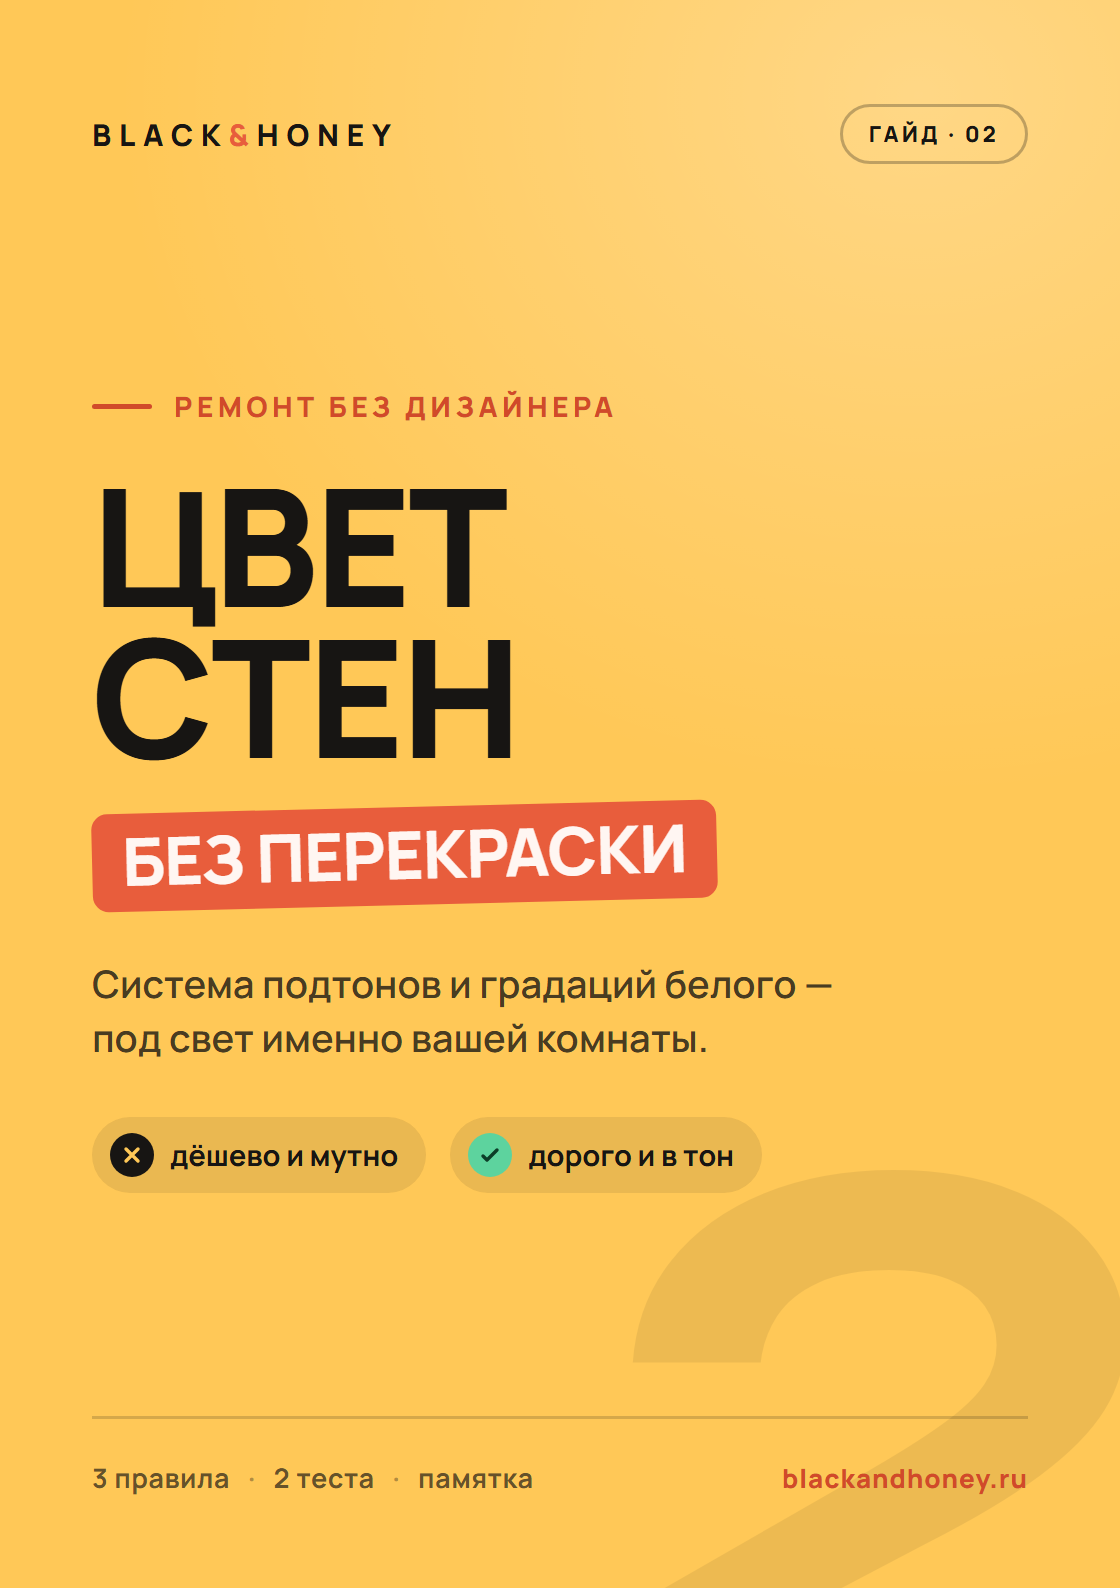
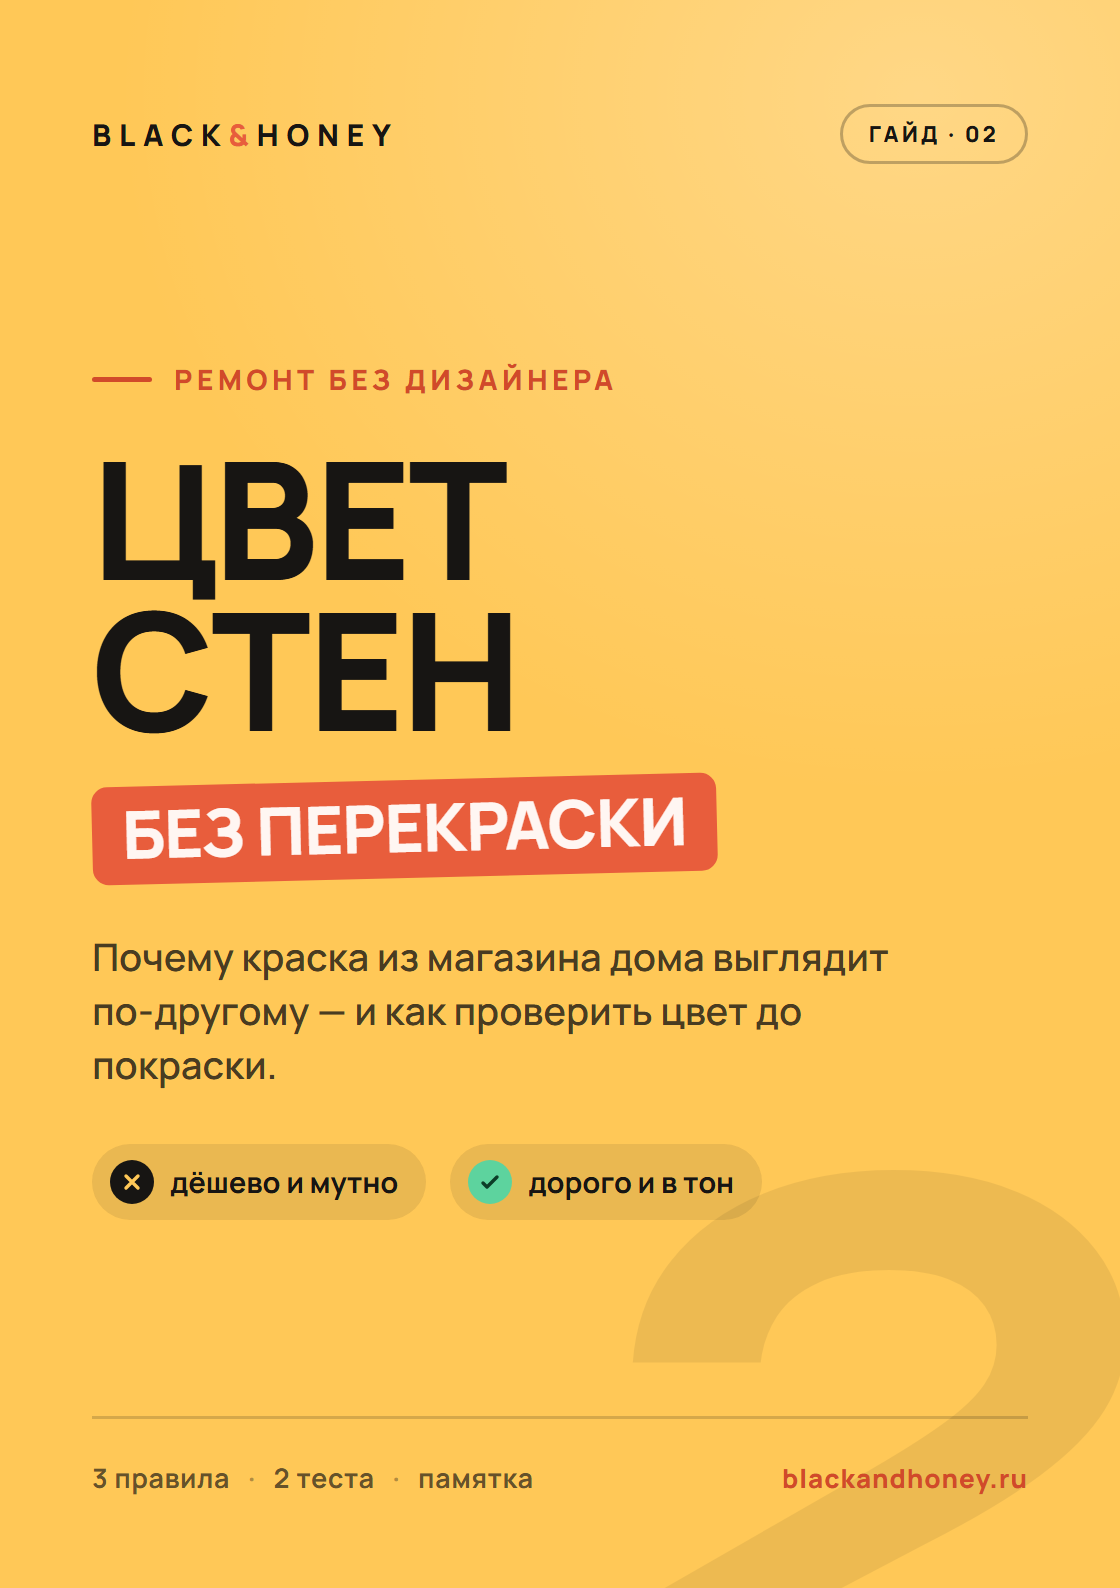
Лендинг: фото Надежды в блоке «Кто мы» (два основателя), новый текст обложки гайда №2

diff --git a/tg-cards.html b/tg-cards.html
@@ -1,0 +1,198 @@
+<!DOCTYPE html>
+<html lang="ru">
+<head>
+<meta charset="UTF-8">
+<meta name="viewport" content="width=device-width, initial-scale=1">
+<title>Карточки Telegram-бота B&H</title>
+<link rel="stylesheet" href="fonts/fonts.css">
+<style>
+:root{
+  --ink:#171513; --paper:#F7F5F2; --cream:#F3ECDC; --page:#FBF8F3;
+  --honey:#FFC857; --honey-deep:#E2A93B;
+  --terra:#E85D3C; --terra-deep:#D14A2A; --terra-soft:#FFF1ED;
+  --green:#5DD39E; --muted:#6B6B6B;
+  --p-yellow:#FFC857; --p-purple:#A78BFA; --p-green:#5DD39E;
+  --p-yellow-soft:#FFF0D2; --p-purple-soft:#EFE9FE; --p-green-soft:#DDF5EA;
+}
+*{margin:0;padding:0;box-sizing:border-box}
+html{-webkit-print-color-adjust:exact;print-color-adjust:exact}
+body{font-family:'Manrope',system-ui,sans-serif;background:#2B2825;
+  display:flex;flex-direction:column;align-items:center;gap:26px;padding:26px}
+.uf{font-family:'Unbounded',sans-serif}
+
+.card{width:1280px;height:800px;position:relative;overflow:hidden;
+  padding:66px 72px;display:flex;flex-direction:column;-webkit-font-smoothing:antialiased}
+.card::after{content:"";position:absolute;inset:0;pointer-events:none;
+  background:radial-gradient(120% 80% at 84% 4%,rgba(255,255,255,.10),transparent 55%)}
+
+/* верхняя строка */
+.top{display:flex;justify-content:space-between;align-items:center;position:relative;z-index:3}
+.wm{font-size:22px;font-weight:800;letter-spacing:.24em;text-transform:uppercase}
+.wm span{color:var(--honey)}
+.chip-bot{font-size:15px;font-weight:800;letter-spacing:.1em;text-transform:uppercase;
+  border-radius:100px;padding:9px 18px}
+
+/* ============ ПРИВЕТСТВЕННАЯ (терра) ============ */
+.c-welcome{background:var(--terra);color:#FFF6F2;text-align:center;padding:40px 44px 46px}
+.c-welcome .wm{color:#FFFDFB}
+.c-welcome .top{justify-content:center}
+.c-welcome .wbody{flex:1;display:flex;flex-direction:column;align-items:center;justify-content:center;
+  position:relative;z-index:2}
+/* обложки по центру, разведены */
+.c-welcome .fan{position:relative;display:flex;justify-content:center;align-items:flex-end;margin-bottom:26px}
+.c-welcome .fan .bk{position:relative;width:300px;aspect-ratio:172/244;border-radius:6px 14px 14px 6px;
+  overflow:hidden;box-shadow:0 28px 58px -12px rgba(0,0,0,.55),0 3px 8px rgba(0,0,0,.32)}
+.c-welcome .fan .bk img{width:100%;height:100%;object-fit:cover;object-position:top}
+.c-welcome .fan .bk::before{content:"";position:absolute;left:0;top:0;bottom:0;width:22px;
+  background:linear-gradient(90deg,rgba(0,0,0,.3),rgba(0,0,0,0))}
+.c-welcome .fan .k1{transform:rotate(-8deg);margin-right:-32px;z-index:1}
+.c-welcome .fan .k2{transform:translateY(-22px);z-index:3}
+.c-welcome .fan .k3{transform:rotate(8deg);margin-left:-32px;z-index:2}
+.c-welcome .badge{position:absolute;right:30px;top:-16px;z-index:5;background:var(--honey);color:var(--ink);
+  font-weight:800;font-size:20px;line-height:1.15;border-radius:100px;padding:13px 23px;transform:rotate(6deg);
+  box-shadow:0 12px 26px rgba(0,0,0,.28)}
+.c-welcome .badge .uf{font-size:24px}
+.c-welcome h1{font-size:64px;line-height:1.03;font-weight:800;letter-spacing:-.025em;color:#FFFDFB}
+.c-welcome h1 b{color:var(--honey);font-weight:800}
+/* CTA со стрелкой вниз — указывает на реальную кнопку бота под картинкой */
+.c-welcome .cta-down{margin-top:26px;display:flex;flex-direction:column;align-items:center;gap:12px}
+.c-welcome .cta-down .pill{display:inline-flex;align-items:center;background:var(--honey);color:var(--ink);
+  font-size:27px;font-weight:800;border-radius:100px;padding:21px 52px;box-shadow:0 14px 30px rgba(255,200,87,.34)}
+.c-welcome .cta-down .arw-d{color:var(--honey);display:flex;align-items:center;justify-content:center}
+.c-welcome .cta-down .arw-d svg{width:48px;height:48px}
+
+/* ============ ВЫДАЧА ГАЙДА (пастель) ============ */
+.c-guide{color:var(--ink)}
+.c-g1{background:radial-gradient(130% 120% at 88% 0,var(--p-yellow-soft),var(--page) 78%)}
+.c-g2{background:radial-gradient(130% 120% at 88% 0,var(--p-purple-soft),var(--page) 78%)}
+.c-g3{background:radial-gradient(130% 120% at 88% 0,var(--p-green-soft),var(--page) 78%)}
+.c-guide .wm{color:var(--ink)}
+.c-guide .chip-bot{color:var(--ink);border:2px solid rgba(23,21,19,.22)}
+.c-guide .body{display:grid;grid-template-columns:1fr 400px;gap:56px;align-items:center;flex:1;position:relative;z-index:2}
+.c-guide .done{display:inline-flex;align-items:center;gap:12px;font-size:19px;font-weight:800;
+  letter-spacing:.07em;text-transform:uppercase;border-radius:100px;padding:11px 20px 11px 12px;margin-bottom:28px}
+.c-guide .done .ic{width:30px;height:30px;border-radius:50%;background:var(--green);color:#0C3D28;
+  display:flex;align-items:center;justify-content:center}
+.c-guide .done .ic svg{width:16px;height:16px}
+.c-g1 .done{background:var(--p-yellow-soft);color:#8A6210}
+.c-g2 .done{background:var(--p-purple-soft);color:#5F4AB8}
+.c-g3 .done{background:var(--p-green-soft);color:#1F7D55}
+.c-guide h1{font-size:62px;line-height:1.0;font-weight:800;letter-spacing:-.02em;max-width:660px}
+.c-guide h1 em{font-style:normal}
+.c-g1 h1 em{color:var(--terra)}.c-g2 h1 em{color:#6B4FCF}.c-g3 h1 em{color:#1F9D66}
+.c-guide .sub{margin-top:24px;font-size:27px;line-height:1.42;font-weight:500;color:#3D3B38;max-width:660px}
+.c-guide .inside{margin-top:30px;display:inline-flex;gap:12px;flex-wrap:wrap}
+.c-guide .inside span{background:#fff;border:1.5px solid var(--line,#E3DFD8);border-radius:100px;
+  padding:13px 22px;font-size:19px;font-weight:700;color:#3D3B38}
+.c-guide .pdfline{margin-top:34px;display:inline-flex;align-items:center;gap:15px;
+  background:var(--ink);color:var(--paper);border-radius:18px;padding:18px 26px;font-size:22px;font-weight:700}
+.c-guide .pdfline .doc{width:44px;height:44px;border-radius:10px;background:var(--terra);color:#fff;
+  display:flex;align-items:center;justify-content:center;font-size:13px;font-weight:800;flex:0 0 auto}
+.c-guide .pdfline b{color:var(--honey)}
+/* книга */
+.bookwrap{display:flex;justify-content:center;align-items:center;position:relative}
+.book{position:relative;width:372px;aspect-ratio:172/244;border-radius:5px 12px 12px 5px;background:#efe7d6;
+  transform:rotate(-4deg);
+  box-shadow:0 3px 6px rgba(26,20,14,.16),0 14px 24px rgba(26,20,14,.18),0 34px 60px -12px rgba(26,20,14,.5)}
+.book__face{position:absolute;inset:0;border-radius:inherit;overflow:hidden}
+.book__face img{width:100%;height:100%;object-fit:cover;object-position:top}
+.book__face::before{content:"";position:absolute;left:0;top:0;bottom:0;width:26px;z-index:2;
+  background:linear-gradient(90deg,rgba(0,0,0,.30),rgba(0,0,0,.05) 55%,rgba(255,255,255,.12) 80%,rgba(255,255,255,0))}
+.book::before{content:"";position:absolute;top:7px;bottom:7px;right:-9px;width:12px;z-index:-1;border-radius:0 4px 4px 0;
+  background:repeating-linear-gradient(90deg,#f3ecdc 0,#f3ecdc 1.5px,#dccfb6 1.5px,#dccfb6 3px);
+  box-shadow:4px 0 10px rgba(0,0,0,.22)}
+
+/* низ */
+.foot{position:relative;z-index:3;display:flex;justify-content:space-between;align-items:center;
+  padding-top:22px;margin-top:auto}
+.foot .site{font-size:16px;font-weight:800;letter-spacing:.04em}
+.c-welcome .foot .site{color:var(--honey)}
+.c-guide .foot .site{color:var(--terra-deep)}
+.foot .tag{font-size:15px;font-weight:600;letter-spacing:.02em}
+.c-welcome .foot .tag{color:rgba(255,246,242,.72)}
+.c-guide .foot .tag{color:var(--muted)}
+</style>
+</head>
+<body>
+
+<!-- ============ 1 · ПРИВЕТСТВИЕ ============ -->
+<section class="card c-welcome" data-c="1">
+  <div class="wbody">
+    <div class="fan">
+      <div class="badge"><span class="uf">3</span> гайда<br>в подарок</div>
+      <div class="bk k1"><img src="img/cover-page-1.png" alt=""></div>
+      <div class="bk k2"><img src="img/cover-page-2.png" alt=""></div>
+      <div class="bk k3"><img src="img/cover-page-3.png" alt=""></div>
+    </div>
+    <h1>Вы в двух шагах от <b>своего гайда</b></h1>
+    <div class="cta-down">
+      <span class="pill">Пройти опрос</span>
+      <span class="arw-d"><svg viewBox="0 0 24 24" fill="none" stroke="currentColor" stroke-width="3.2" stroke-linecap="round" stroke-linejoin="round"><path d="M12 5v14M6 13l6 6 6-6"/></svg></span>
+    </div>
+  </div>
+</section>
+
+<!-- ============ 2 · ГАЙД 1 ПЛАНИРОВКА ============ -->
+<section class="card c-guide c-g1" data-c="2">
+  <div class="top">
+    <div class="wm">Black<span>&amp;</span>Honey</div>
+    <div class="chip-bot">Гайд · 01</div>
+  </div>
+  <div class="body">
+    <div>
+      <span class="done"><span class="ic"><svg viewBox="0 0 24 24" fill="none" stroke="currentColor" stroke-width="3.4" stroke-linecap="round" stroke-linejoin="round"><path d="M5 13l4 4L19 7"/></svg></span>Ваш гайд готов</span>
+      <h1><em>Планировка</em> без дизайнера</h1>
+      <p class="sub">Как спланировать удобную квартиру с первого раза — без переноса стен и лишних трат.</p>
+      <div class="inside"><span>4 принципа</span><span>6 шагов</span><span>памятка</span></div>
+      <div class="pdfline"><span class="doc">PDF</span>Файл — в <b>сообщении ниже</b></div>
+    </div>
+    <div class="bookwrap"><div class="book"><div class="book__face"><img src="img/cover-page-1.png" alt="Гайд «Планировка без дизайнера»"></div></div></div>
+  </div>
+</section>
+
+<!-- ============ 3 · ГАЙД 2 ЦВЕТ ============ -->
+<section class="card c-guide c-g2" data-c="3">
+  <div class="top">
+    <div class="wm">Black<span>&amp;</span>Honey</div>
+    <div class="chip-bot">Гайд · 02</div>
+  </div>
+  <div class="body">
+    <div>
+      <span class="done"><span class="ic"><svg viewBox="0 0 24 24" fill="none" stroke="currentColor" stroke-width="3.4" stroke-linecap="round" stroke-linejoin="round"><path d="M5 13l4 4L19 7"/></svg></span>Ваш гайд готов</span>
+      <h1>Как выбрать <em>цвет стен</em></h1>
+      <p class="sub">Чтобы потом не перекрашивать. Как подобрать оттенок именно под вашу комнату и не промахнуться.</p>
+      <div class="inside"><span>3 правила</span><span>2 теста</span><span>памятка</span></div>
+      <div class="pdfline"><span class="doc">PDF</span>Файл — в <b>сообщении ниже</b></div>
+    </div>
+    <div class="bookwrap"><div class="book"><div class="book__face"><img src="img/cover-page-2.png" alt="Гайд «Как выбрать цвет стен»"></div></div></div>
+  </div>
+</section>
+
+<!-- ============ 4 · ГАЙД 3 БРИГАДА ============ -->
+<section class="card c-guide c-g3" data-c="4">
+  <div class="top">
+    <div class="wm">Black<span>&amp;</span>Honey</div>
+    <div class="chip-bot">Гайд · 03</div>
+  </div>
+  <div class="body">
+    <div>
+      <span class="done"><span class="ic"><svg viewBox="0 0 24 24" fill="none" stroke="currentColor" stroke-width="3.4" stroke-linecap="round" stroke-linejoin="round"><path d="M5 13l4 4L19 7"/></svg></span>Ваш гайд готов</span>
+      <h1>Как договориться<br>с <em>бригадой</em></h1>
+      <p class="sub">И не переплатить. Какие работы обязательны, а какие только раздувают смету — и что вписать в договор.</p>
+      <div class="inside"><span>4 принципа</span><span>договор</span><span>приёмка</span></div>
+      <div class="pdfline"><span class="doc">PDF</span>Файл — в <b>сообщении ниже</b></div>
+    </div>
+    <div class="bookwrap"><div class="book"><div class="book__face"><img src="img/cover-page-3.png" alt="Гайд «Как договориться с бригадой»"></div></div></div>
+  </div>
+</section>
+
+<script>
+/* ?c=N — показать только одну карточку без отступов (для рендера) */
+(function(){
+  var m=location.search.match(/c=(\d)/);if(!m)return;
+  document.querySelectorAll('.card').forEach(function(s){if(s.dataset.c!==m[1])s.remove();});
+  document.body.style.cssText='margin:0;padding:0;background:none;display:block';
+})();
+</script>
+</body>
+</html>

diff --git a/index.html b/index.html
@@ -328,8 +328,12 @@ h1 .nb{white-space:nowrap}
   border:1px solid var(--line);overflow:hidden;
   display:grid;grid-template-columns:300px 1fr;
 }
-.author-photo{position:relative;background:var(--paper-2)}
-.author-photo img{width:100%;height:100%;object-fit:cover;object-position:50% 12%}
+.author-photos{display:flex;flex-direction:column}
+.author-photo{position:relative;flex:1;min-height:0;background:var(--paper-2);overflow:hidden}
+.author-photo+.author-photo{border-top:3px solid var(--page)}
+.author-photo img{width:100%;height:100%;object-fit:cover}
+.author-photo.p-nadya img{object-position:50% 14%}
+.author-photo.p-kirill img{object-position:50% 12%}
 .author-photo .photo-cap{position:absolute;left:16px;bottom:16px;
   background:rgba(27,25,23,.82);color:#FFFDFB;backdrop-filter:blur(4px);
   border-radius:100px;padding:6px 14px;font-size:.78rem;font-weight:700;letter-spacing:.01em}
@@ -348,8 +352,12 @@ h1 .nb{white-space:nowrap}
 .legal{margin-top:18px;font-size:.76rem;line-height:1.45;color:var(--muted);max-width:56ch}
 @media(max-width:760px){
   .author-card{grid-template-columns:1fr}
-  .author-photo{height:auto;aspect-ratio:4/5;max-height:460px}
-  .author-photo img{object-position:50% 20%}
+  .author-photos{flex-direction:row}
+  .author-photo{aspect-ratio:4/5}
+  .author-photo+.author-photo{border-top:0;border-left:3px solid var(--page)}
+}
+@media(max-width:420px){
+  .author-photo .photo-cap{font-size:.68rem;padding:5px 10px;left:10px;bottom:10px}
 }
 
 /* ============ ФУТЕР ============ */
@@ -590,9 +598,15 @@ h1 .nb{white-space:nowrap}
 <section class="section author">
   <div class="wrap">
     <div class="author-card reveal">
-      <div class="author-photo">
-        <img src="img/kirill-photo.jpg" alt="Кирилл Бегинин — сооснователь студии дизайна интерьеров Black&amp;Honey">
-        <span class="photo-cap">Кирилл, сооснователь</span>
+      <div class="author-photos">
+        <div class="author-photo p-nadya">
+          <img src="img/nadezhda-photo.jpg" alt="Надежда Зюбина — сооснователь студии дизайна интерьеров Black&amp;Honey">
+          <span class="photo-cap">Надежда, сооснователь</span>
+        </div>
+        <div class="author-photo p-kirill">
+          <img src="img/kirill-photo.jpg" alt="Кирилл Бегинин — сооснователь студии дизайна интерьеров Black&amp;Honey">
+          <span class="photo-cap">Кирилл, сооснователь</span>
+        </div>
       </div>
       <div class="author-body">
         <div class="kicker">Кто мы</div>

diff --git a/covers.html b/covers.html
@@ -145,7 +145,7 @@ body{font-family:'Manrope',system-ui,sans-serif;background:#2B2825;
     <div class="kick">Ремонт без дизайнера</div>
     <div class="title">Цвет<br>стен</div>
     <div class="mark">без перекраски</div>
-    <p class="sub">Система подтонов и градаций белого — под свет именно вашей комнаты.</p>
+    <p class="sub">Почему краска из магазина дома выглядит по-другому — и как проверить цвет до покраски.</p>
     <div class="ba">
       <span class="it no"><span class="ic"><svg viewBox="0 0 24 24" fill="none" stroke="currentColor" stroke-width="3.4" stroke-linecap="round"><path d="M6 6l12 12M18 6L6 18"/></svg></span>дёшево и мутно</span>
       <span class="it yes"><span class="ic"><svg viewBox="0 0 24 24" fill="none" stroke="currentColor" stroke-width="3.4" stroke-linecap="round" stroke-linejoin="round"><path d="M5 13l4 4L19 7"/></svg></span>дорого и в тон</span>
